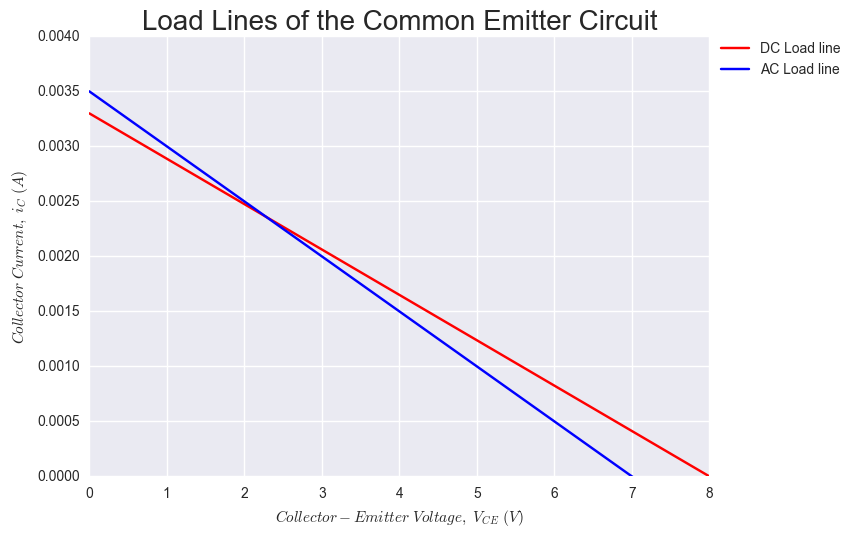
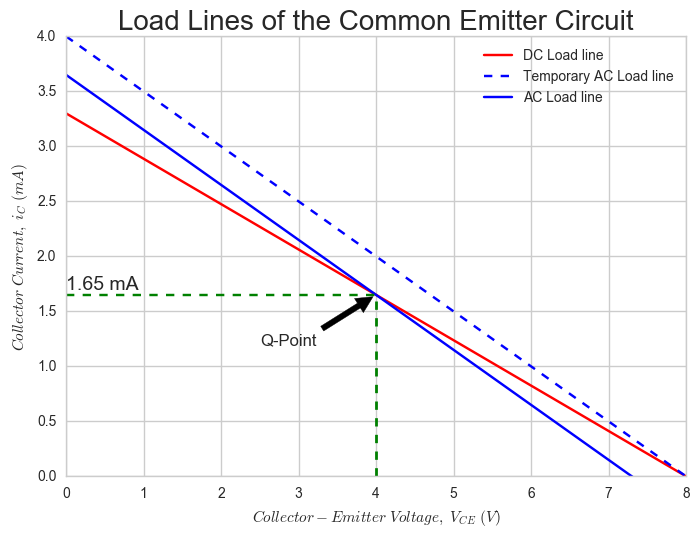
loadlines done, finish up lab

diff --git a/labs/lab05/scripts/plotter.py b/labs/lab05/scripts/plotter.py
@@ -11,27 +11,35 @@ fig_path = path_join(BASE_DIR, 'figures/')
 
 def plot_waves(title, fig_name):
 
-    sns.set_style(style='darkgrid')
+    sns.set_style(style='whitegrid')
     fig, ax = plt.subplots(nrows=1, ncols=1)
 
     r_c = 2000
     r_e = 424.24
     v_ce = arange(0, 8, 0.01)
-    i_c_dc = [(8 - i) / (r_c + r_e) for i in v_ce]
-    i_c_ac = [0.0035 + (-i / (r_c)) for i in v_ce]
+    i_c_dc = [1000 * (8 - i) / (r_c + r_e) for i in v_ce]
+    i_c_ac_t = [1000 * ((8 - i) / (r_c)) for i in v_ce]
+    i_c_ac = [1000 * (-0.00035 + (8 - i) / (r_c)) for i in v_ce]
+    q_point = i_c_dc[list(v_ce).index(4)]
 
     plt.plot(v_ce, i_c_dc, '-r', label='DC Load line')
+    plt.plot(v_ce, i_c_ac_t, '--b', label='Temporary AC Load line')
     plt.plot(v_ce, i_c_ac, '-b', label='AC Load line')
 
+    plt.axvline(x=4, ymax=q_point / 4, linewidth=2, color='g', ls='dashed')
+    plt.axhline(y=q_point, xmax=0.5, color='g', ls='dashed')
+    ax.text(0, q_point + 0.05, str(round(q_point, 4)) + ' mA', fontsize=14)
+    ax.annotate('Q-Point', xy=(4, q_point), xytext=(2.5, 1.2),
+                arrowprops=dict(facecolor='black', shrink=0.05))
+
     plt.title(title, fontsize=20)
-    plt.ylabel(r'$Collector\ Current,\ i_{C}\ (A)$')
+    plt.ylabel(r'$Collector\ Current,\ i_{C}\ (mA)$')
     plt.xlabel(r'$Collector-Emitter\ Voltage,\ V_{CE}\ (V)$')
 
-    plt.ylim([0, 0.004])
-    lgd = ax.legend(bbox_to_anchor=(1.01, 1), loc=2, borderaxespad=0.)
+    plt.ylim([0, 4])
 
     fig.savefig(fig_path + fig_name + '.png',
-                bbox_extra_artists=(lgd,),
+                bbox_extra_artists=(ax.legend(),),
                 bbox_inches='tight')
 
 
